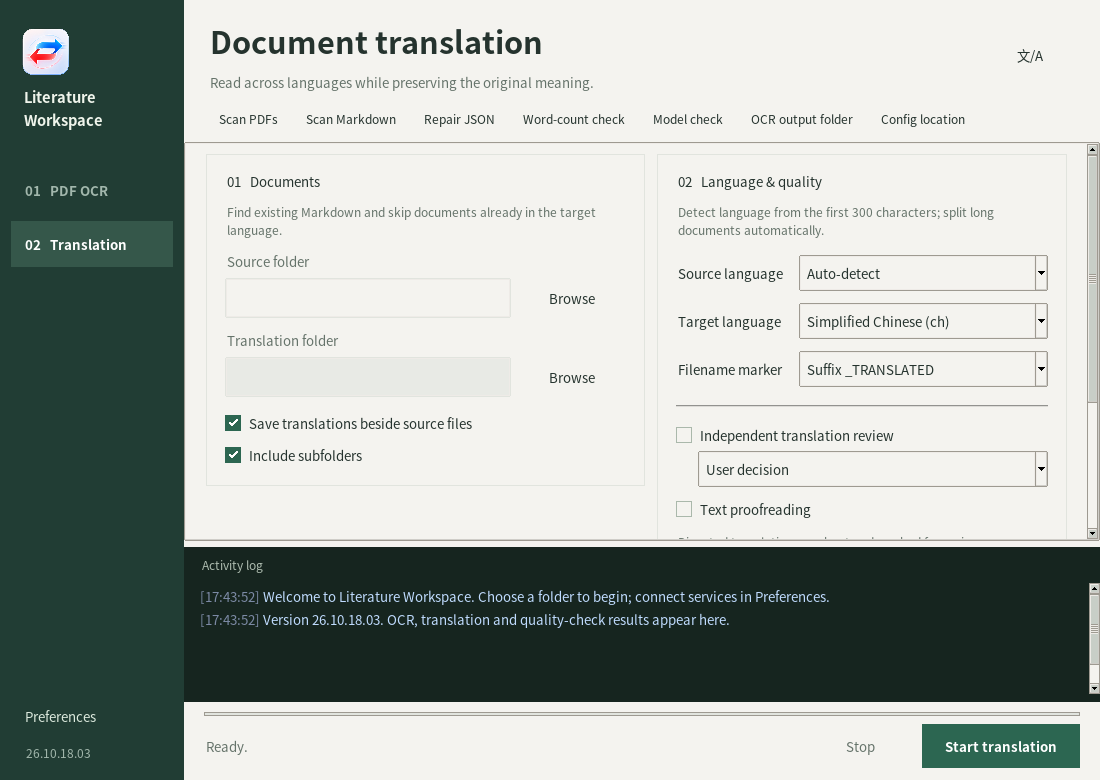
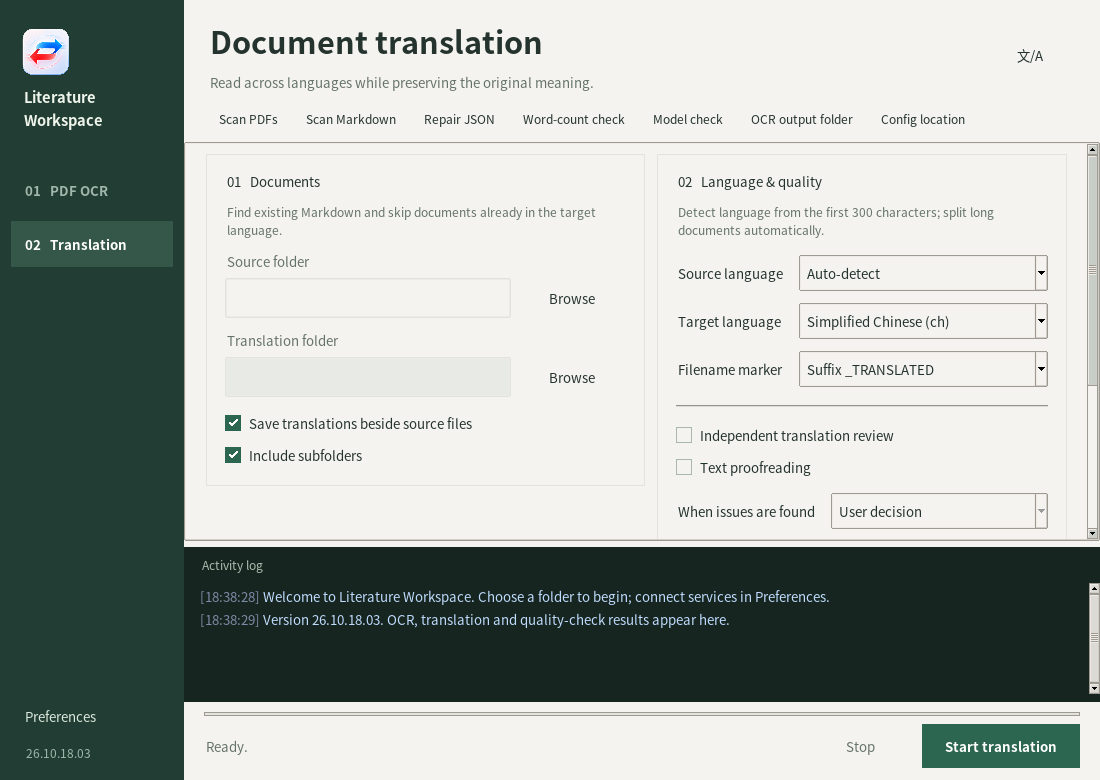
fix: arbitrate proofreading findings in post-OCR translation

diff --git a/tests/test_literature_processing.py b/tests/test_literature_processing.py
@@ -118,6 +118,81 @@ class TranslationTests(unittest.TestCase):
             options=lp.TranslationOptions(proofreading=True), proofreader=self.profile)
         self.assertTrue(result["verified"])
 
+    def test_proofreading_findings_use_selected_decision_model_without_secondary_review(self):
+        arbiter = lp.ModelProfile(self.profile.base_url, "arbiter-key", "decision-model")
+        log, decide = Mock(), Mock(side_effect=AssertionError("Model mode must not ask the user"))
+        result, chat = self.translate([self.detect, "译文", '{"has_problem":true,"issues":["缺字疑点"]}',
+                '{"decision":"approve","has_problem":false,"reason":"原文与译文一致"}'],
+            options=lp.TranslationOptions(proofreading=True, arbitration="大模型裁决"),
+            proofreader=self.profile, arbiter=arbiter, log=log, decide=decide)
+        self.assertTrue(result["verified"])
+        self.assertEqual(result["arbiter"], "decision-model")
+        self.assertEqual(chat.call_args_list[-1].args[0], arbiter)
+        self.assertEqual(chat.call_args_list[-1].args[1], lp.PROOF_ARBITRATE_PROMPT)
+        self.assertEqual(chat.call_args_list[-1].args[2]["translation"], "译文")
+        self.assertTrue(result["checks"][0]["proofreading"]["has_problem"])
+        self.assertEqual(result["checks"][0]["proofreadingArbitration"]["decision"], "approve")
+        self.assertEqual(result["pendingReasons"], [])
+        self.assertIn("开始校对疑点裁决，模型 decision-model", "\n".join(str(call.args[0]) for call in log.call_args_list))
+        decide.assert_not_called()
+
+    def test_proofreading_decision_requires_both_explicit_approval_and_no_remaining_problem(self):
+        for verdict in ({"decision": "approve", "has_problem": True},
+                        {"decision": "needs_review", "has_problem": True},
+                        {"decision": "needs_review", "has_problem": False},
+                        {"decision": "unresolved", "has_problem": False},
+                        {"has_problem": False}):
+            with self.subTest(verdict=verdict):
+                self.output.unlink(missing_ok=True)
+                result, _ = self.translate([self.detect, "译文", '{"has_problem":true}', json.dumps(verdict)],
+                    options=lp.TranslationOptions(proofreading=True, arbitration="大模型裁决"),
+                    proofreader=self.profile, arbiter=self.profile)
+                self.assertFalse(result["verified"])
+                self.assertEqual(result["status"], "needs_review")
+                self.assertEqual(result["pendingReasons"], ["proofreading_problem"])
+
+    def test_proofreading_approval_does_not_clear_an_unresolved_translation_dispute(self):
+        result, _ = self.translate([self.detect, "首次", "二次", '{"has_problem":true}',
+                '{"choice":"unresolved","has_problem":true}', '{"has_problem":true}',
+                '{"decision":"approve","has_problem":false}'],
+            options=lp.TranslationOptions(secondary_review=True, proofreading=True, arbitration="大模型裁决"),
+            reviewer=self.profile, proofreader=self.profile, arbiter=self.profile)
+        self.assertFalse(result["verified"])
+        self.assertEqual(result["pendingReasons"], ["translation_dispute_unresolved"])
+
+    def test_model_proofreading_decision_validates_arbiter_before_any_request(self):
+        with patch.object(lp, "chat") as chat, self.assertRaisesRegex(ValueError, "裁决模型"):
+            lp.translate_document(self.source, self.output,
+                lp.TranslationOptions(proofreading=True, arbitration="大模型裁决"), self.profile, proofreader=self.profile)
+        chat.assert_not_called()
+
+    def test_invalid_proofreading_decision_never_creates_an_approved_file(self):
+        with self.assertRaises(RuntimeError):
+            self.translate([self.detect, "译文", '{"has_problem":true}', '{"decision":"approve"}'],
+                options=lp.TranslationOptions(proofreading=True, arbitration="大模型裁决"),
+                proofreader=self.profile, arbiter=self.profile)
+        self.assertFalse(self.output.exists())
+
+    def test_clean_proofreading_does_not_call_the_arbiter(self):
+        result, chat = self.translate([self.detect, "译文", '{"has_problem":false}'],
+            options=lp.TranslationOptions(proofreading=True, arbitration="大模型裁决"),
+            proofreader=self.profile, arbiter=self.profile)
+        self.assertTrue(result["verified"])
+        self.assertEqual(chat.call_count, 3)
+        self.assertNotIn("proofreadingArbitration", result["checks"][0])
+
+    def test_translation_arbitration_logs_the_model_and_effective_decision(self):
+        log = Mock()
+        result, _ = self.translate([self.detect, "首次", "二次", '{"has_problem":true}',
+                '{"choice":"second","has_problem":false,"reason":"二次译文完整"}'],
+            options=lp.TranslationOptions(secondary_review=True, arbitration="大模型裁决"),
+            reviewer=self.profile, arbiter=self.profile, log=log)
+        text = "\n".join(str(call.args[0]) for call in log.call_args_list)
+        self.assertIn("开始翻译分歧裁决，模型 translator", text)
+        self.assertIn("接受二次译文", text)
+        self.assertIn("二次译文完整", text)
+        self.assertTrue(result["verified"])
+
     def test_malformed_review_does_not_produce_approved_output(self):
         with self.assertRaises(RuntimeError):
             self.translate([self.detect, "译文", '{"has_problem":"false"}'],

diff --git a/tests/test_literature_ui.py b/tests/test_literature_ui.py
@@ -84,6 +84,40 @@ class OCRIntegrationTests(unittest.TestCase):
         with self.assertRaises(lp.ProcessingCancelled):
             LiteratureControls.decide(controls, {"chunk": 1})
 
+    def test_post_ocr_translation_uses_model_for_review_and_proofreading_decisions(self):
+        for secondary in (False, True):
+            with self.subTest(secondary=secondary), tempfile.TemporaryDirectory() as directory:
+                root = Path(directory)
+                source = root / "ocr-result.md"
+                source.write_text("# Foreign paper\n\nEvidence and conclusions.", encoding="utf-8")
+                profiles = {role: lp.ModelProfile("https://example.invalid/v1", "test-key", role)
+                            for role in ("translator", "reviewer", "proofreader", "arbiter")}
+                controls = object.__new__(LiteratureControls)
+                controls.snapshot = {"auto_translate": True, "output": None, "prefix": False,
+                    "profiles": profiles, "options": lp.TranslationOptions(secondary_review=secondary,
+                        proofreading=True, arbitration="大模型裁决"), "github": None}
+                controls.stopped = Mock(return_value=False)
+                controls.events = queue.Queue()
+                controls.log = Mock()
+                controls.maybe_upload = Mock()
+                controls.decide = Mock(side_effect=AssertionError("Automatic model decisions must not open a user dialog"))
+                responses = ['{"language":"English","is_target_language":false}', "# 文献\n\n证据与结论。"]
+                if secondary:
+                    responses += ["# 文献\n\n第二版。", '{"has_problem":true}',
+                                  '{"choice":"first","has_problem":false,"reason":"第一版准确"}']
+                responses += ['{"has_problem":true,"issues":["缺字疑点"]}',
+                              '{"decision":"approve","has_problem":false,"reason":"校对误报，译文完整"}']
+                with patch.object(lp, "chat", side_effect=responses) as chat:
+                    controls.after_ocr(source, root, {"llmReview": {"hasProblem": False}}, source.read_text())
+                report = json.loads((root / "ocr-result_TRANSLATED.translation.json").read_text(encoding="utf-8"))
+                self.assertEqual(report["status"], "verified")
+                self.assertEqual(report["arbiter"], "arbiter")
+                decisions = [call for call in chat.call_args_list if call.args[0].model == "arbiter"]
+                self.assertEqual(len(decisions), 2 if secondary else 1)
+                self.assertEqual(decisions[-1].args[1], lp.PROOF_ARBITRATE_PROMPT)
+                self.assertTrue(controls.maybe_upload.call_args.args[2])
+                controls.decide.assert_not_called()
+
 
 class DesktopLayoutTests(unittest.TestCase):
     @classmethod
@@ -532,6 +566,41 @@ class DesktopLayoutTests(unittest.TestCase):
             self.app.start_btn.configure(state="normal")
             self.app.stop_btn.configure(state="disabled")
             self.app.manual_query_btn.configure(state="disabled")
+
+    def test_ocr_and_translation_entries_share_quality_controls_and_validate_proofreading_arbiter(self):
+        controls, layout = self.app.literature, self.app.workspace_layout
+        before = {name: getattr(controls, name).get() for name in ("auto_translate", "secondary", "proofreading", "arbitration")}
+        previous_profiles = {role: (model.key.get(), model.model.get()) for role, model in controls.profiles.items()}
+        try:
+            controls.auto_translate.set(True)
+            controls.secondary.set(False)
+            controls.proofreading.set(False)
+            self.assertTrue(layout.ocr_quality_group.grid_info())
+            self.assertEqual(str(layout.ocr_quality_panel.arbitration_combo.cget("state")), "disabled")
+            layout.ocr_quality_panel.proofreading_button.invoke()
+            self.assertTrue(controls.proofreading.get())
+            self.assertEqual(str(controls.quality_panel.arbitration_combo.cget("state")), "readonly")
+            controls.arbitration.set("大模型裁决")
+            for role, model in controls.profiles.items():
+                model.key.set("test-key")
+                model.model.set(role)
+            snapshot = controls.make_snapshot()
+            self.assertTrue(snapshot["options"].proofreading)
+            self.assertEqual(snapshot["options"].arbitration, "大模型裁决")
+            self.assertEqual(snapshot["profiles"]["arbiter"].model, "arbiter")
+            self.assertEqual(layout.ocr_quality_panel.arbitration_combo.cget("textvariable"),
+                             controls.quality_panel.arbitration_combo.cget("textvariable"))
+            controls.profiles["arbiter"].key.set("")
+            with self.assertRaises(ValueError):
+                controls.make_snapshot()
+            controls.auto_translate.set(False)
+            self.assertFalse(layout.ocr_quality_group.grid_info())
+        finally:
+            for name, value in before.items():
+                getattr(controls, name).set(value)
+            for role, (key, model) in previous_profiles.items():
+                controls.profiles[role].key.set(key)
+                controls.profiles[role].model.set(model)
 
     def test_user_can_inspect_both_versions_and_accept_second(self):
         controls = self.app.literature

diff --git a/workspace_ui.py b/workspace_ui.py
@@ -154,6 +154,35 @@ def path_field(parent, row, label, variable, command):
     return entry, button
 
 
+def quality_controls(parent, controls):
+    """Both entry points edit the same quality options and decision mode."""
+    panel = ttk.Frame(parent, style="Paper.TFrame")
+    panel.columnconfigure(0, weight=1)
+    panel.secondary_button = ttk.Checkbutton(panel, text=tr('二次翻译核对'), variable=controls.secondary)
+    panel.secondary_button.grid(row=0, column=0, sticky="w")
+    panel.proofreading_button = ttk.Checkbutton(panel, text=tr('文本校对'), variable=controls.proofreading)
+    panel.proofreading_button.grid(row=1, column=0, sticky="w")
+    form = ResponsiveForm(panel)
+    form.grid(row=2, column=0, sticky="ew", pady=(4, 0))
+    panel.arbitration_combo = ttk.Combobox(form, textvariable=controls.arbitration,
+        values=[tr('用户自行裁决'), tr('大模型裁决')], state="readonly")
+    panel.arbitration_combo.localized_choices = True
+    form.add(tr("发现问题时"), panel.arbitration_combo)
+    AdaptiveLabel(panel, text=tr("勾选检查后选择处理方式。大模型裁决会复核翻译分歧和校对疑点；无法明确批准时保留报告待处理。"),
+                  style="Hint.TLabel").grid(row=3, column=0, sticky="ew", pady=(6, 0))
+
+    def refresh(*_):
+        panel.arbitration_combo.configure(state="readonly" if controls.secondary.get() or controls.proofreading.get() else "disabled")
+    traces = [(variable, variable.trace_add("write", refresh)) for variable in (controls.secondary, controls.proofreading)]
+    def cleanup(event):
+        if event.widget == panel:
+            for variable, trace in traces:
+                variable.trace_remove("write", trace)
+    panel.bind("<Destroy>", cleanup, add="+")
+    refresh()
+    return panel
+
+
 def build_translation_page(controls, saved, fetch, test):
     """Create task options here; advanced service configuration lives in Settings."""
     shell = controls.app.workspace_layout
@@ -178,13 +207,8 @@ def build_translation_page(controls, saved, fetch, test):
         selector.localized_choices = True
         controls.language_form.add(label, selector)
     ttk.Separator(body).grid(row=3, column=0, sticky="ew", pady=12)
-    ttk.Checkbutton(body, text=tr('二次翻译核对'), variable=controls.secondary).grid(row=4, column=0, sticky="w")
-    arbitration = ttk.Combobox(body, textvariable=controls.arbitration,
-                               values=[tr('用户自行裁决'), tr('大模型裁决')], state="readonly", width=18)
-    arbitration.localized_choices = True
-    arbitration.grid(row=5, column=0, sticky="ew", padx=(22, 0), pady=(0, 6))
-    ttk.Checkbutton(body, text=tr('文本校对'), variable=controls.proofreading).grid(row=6, column=0, sticky="w")
-    AdaptiveLabel(body, text=tr('有争议的译文会保留并标记为待处理。'), style="Hint.TLabel").grid(row=7, column=0, sticky="ew", pady=(6, 0))
+    controls.quality_panel = quality_controls(body, controls)
+    controls.quality_panel.grid(row=4, column=0, sticky="ew")
     summary, body = card(page, tr('03   处理服务'))
     summary.grid(row=2, column=0, sticky="ew", padx=20, pady=(0, 20))
     controls.model_summary = LocalizedVar(value=tr('尚未设置翻译模型'))
@@ -301,7 +325,21 @@ class WorkspaceLayout:
                                      (3, tr('覆盖已有 Markdown'), app.overwrite_var), (4, tr('使用 LLM 核验 OCR 质量'), app.llm_review_var),
                                      (5, tr('自动检测外文并翻译'), app.literature.auto_translate)):
             ttk.Checkbutton(body, text=text, variable=variable).grid(row=row, column=0, sticky="w")
-        AdaptiveLabel(body, text=tr('大于 50MB 的 PDF 会自动拆分并合并结果。'), style="Hint.TLabel").grid(row=6, column=0, sticky="ew", pady=(8, 0))
+        self.ocr_quality_group = ttk.LabelFrame(body, text=tr("自动翻译核对设置（两入口共用）"), padding=10)
+        self.ocr_quality_group.columnconfigure(0, weight=1)
+        self.ocr_quality_group.grid(row=6, column=0, sticky="ew", pady=(8, 0))
+        self.ocr_quality_panel = quality_controls(self.ocr_quality_group, app.literature)
+        self.ocr_quality_panel.grid(row=0, column=0, sticky="ew")
+        ttk.Button(self.ocr_quality_group, text=tr("配置翻译与裁决模型"),
+                   command=lambda: self.show_settings(1)).grid(row=1, column=0, sticky="w", pady=(6, 0))
+        def sync_quality_options(*_):
+            if app.literature.auto_translate.get():
+                self.ocr_quality_group.grid()
+            else:
+                self.ocr_quality_group.grid_remove()
+        app.literature.auto_translate.trace_add("write", sync_quality_options)
+        sync_quality_options()
+        AdaptiveLabel(body, text=tr('大于 50MB 的 PDF 会自动拆分并合并结果。'), style="Hint.TLabel").grid(row=7, column=0, sticky="ew", pady=(8, 0))
         service, body = card(page, tr('03   处理服务'))
         service.grid(row=2, column=0, sticky="ew", padx=20, pady=(0, 20))
         AdaptiveLabel(body, textvariable=app.token_state_var, style="Card.TLabel").grid(row=0, column=0, sticky="ew", pady=5)

diff --git a/literature_ui.py b/literature_ui.py
@@ -240,12 +240,16 @@ class LiteratureControls:
             required = ["translator"]
             if self.secondary.get():
                 required.append("reviewer")
-                if self.arbitration.get() == "大模型裁决":
-                    required.append("arbiter")
             if self.proofreading.get():
                 required.append("proofreader")
+            if (self.secondary.get() or self.proofreading.get()) and self.arbitration.get() == "大模型裁决":
+                required.append("arbiter")
             for key in required:
-                profiles[key].validate()
+                try:
+                    profiles[key].validate()
+                except ValueError as exc:
+                    role = tr({"translator": "翻译", "reviewer": "二次核对", "proofreader": "校对", "arbiter": "裁决"}[key])
+                    raise ValueError(tr("{arg0}模型配置不完整：{arg1}", arg0=role, arg1=exc)) from None
             if not self.target.get().strip():
                 raise ValueError(tr('请选择目标语言。'))
         github = None
@@ -341,8 +345,14 @@ class LiteratureControls:
         destination = translated_path(path, root, snapshot["output"], snapshot["prefix"])
         result = translate_document(path, destination, snapshot["options"],
             **snapshot["profiles"], decide=self.decide, stop=self.stopped, log=self.log)
-        labels = {"verified": tr('核验通过'), "needs_review": tr('发现问题，待人工处理'), "unverified": tr('未启用质量检查'),
+        labels = {"verified": tr('核验通过'), "needs_review": tr('核验尚未通过，请查看检查报告'), "unverified": tr('未启用质量检查'),
                   "target_language": tr('已是目标语言，跳过'), "existing": tr('译文已存在，跳过')}
+        if result["status"] == "needs_review":
+            reasons = result.get("pendingReasons", [])
+            if reasons == ["proofreading_problem"]:
+                labels["needs_review"] = tr("文本校对尚未通过，请查看检查报告")
+            elif reasons == ["translation_dispute_unresolved"]:
+                labels["needs_review"] = tr("翻译分歧尚未解决，请查看检查报告")
         self.log(tr('{arg0}：{arg1}', arg0=path.name, arg1=labels[result['status']]))
         self.events.put(("status", tr('{arg0}：{arg1}', arg0=path.name, arg1=labels[result['status']])))
         if result["status"] in {"verified", "needs_review", "unverified"}:
@@ -365,6 +375,7 @@ class LiteratureControls:
             expected = hashlib.sha256(path.read_bytes()).hexdigest()
         self.maybe_upload(path, root, ocr_verified(raw_data), snapshot, expected)
         if snapshot["auto_translate"]:
+            self.log(tr("OCR 后自动翻译沿用共用的翻译、核对和裁决设置。"))
             def warning(value):
                 if isinstance(value, dict):
                     return bool(value.get("qualityWarning")) or any(warning(v) for v in value.values())

diff --git a/ui_translations.py b/ui_translations.py
@@ -506,6 +506,31 @@ EN_MESSAGES.update({
     "配置位置": "Config location",
 })
 
+EN_MESSAGES.update({
+    '启用': 'Enabled',
+    '翻译检查设置：二次核对 {arg0}；文本校对 {arg1}；问题处理 {arg2}；裁决模型 {arg3}。': 'Translation checks: independent review {arg0}; proofreading {arg1}; issue handling {arg2}; decision model {arg3}.',
+    '{arg0}：第 {arg1} 段开始翻译分歧裁决，模型 {arg2}。': '{arg0}: deciding the translation dispute in chunk {arg1}, using {arg2}.',
+    '{arg0}：第 {arg1} 段翻译裁决结果：{arg2}；理由：{arg3}': '{arg0}: translation decision for chunk {arg1}: {arg2}; reason: {arg3}',
+    '未能明确批准译文': 'Translation not explicitly approved',
+    '模型未提供理由': 'No reason provided by the model',
+    '{arg0}：第 {arg1} 段翻译有分歧，等待用户裁决。': '{arg0}: translation dispute in chunk {arg1}; waiting for your decision.',
+    '{arg0}：第 {arg1} 段开始校对疑点裁决，模型 {arg2}。': '{arg0}: deciding proofreading findings in chunk {arg1}, using {arg2}.',
+    '{arg0}：第 {arg1} 段校对裁决结果：{arg2}；理由：{arg3}': '{arg0}: proofreading decision for chunk {arg1}: {arg2}; reason: {arg3}',
+    '校对疑点已排除': 'Proofreading findings cleared',
+    '校对疑点尚未解决': 'Proofreading findings remain unresolved',
+    '{arg0}：第 {arg1} 段校对疑点尚未解决，本段保持待处理。': '{arg0}: proofreading findings in chunk {arg1} remain unresolved; the chunk is pending review.',
+    '核验尚未通过，请查看检查报告': 'Checks have not passed; see the review report',
+    '文本校对尚未通过，请查看检查报告': 'Proofreading has not passed; see the review report',
+    '翻译分歧尚未解决，请查看检查报告': 'Translation dispute unresolved; see the review report',
+    'OCR 后自动翻译沿用共用的翻译、核对和裁决设置。': 'Post-OCR translation uses the shared translation, review and decision settings.',
+    '发现问题时': 'When issues are found',
+    '勾选检查后选择处理方式。大模型裁决会复核翻译分歧和校对疑点；无法明确批准时保留报告待处理。': 'Enable a check, then choose how to handle issues. Model decisions review translation disputes and proofreading findings; unresolved cases remain in the report.',
+    '自动翻译核对设置（两入口共用）': 'Translation checks (shared by both entries)',
+    '配置翻译与裁决模型': 'Configure translation and decision models',
+})
+
+EN_MESSAGES.update({"{arg0}模型配置不完整：{arg1}": "Incomplete {arg0} model settings: {arg1}"})
+
 _language = "zh"
 _sources = {value: key for key, value in EN_MESSAGES.items()}
 

diff --git a/tests/test_model_budget.py b/tests/test_model_budget.py
@@ -119,6 +119,30 @@ class BudgetTests(unittest.TestCase):
         self.assertEqual("".join(originals), text)
         self.assertGreater(len(report["checks"]), 1)
 
+    def test_proofreading_only_decision_respects_a_smaller_arbiter_budget(self):
+        translator = self.profile(input_limit=80000)
+        proofreader = replace(translator, model="proofreader")
+        arbiter = replace(translator, model="arbiter", input_limit=12000)
+        options = lp.TranslationOptions(proofreading=True, arbitration="大模型裁决")
+        def responder(profile, prompt, data, *args, **kwargs):
+            self.assertLessEqual(request_size(prompt, data), input_budget(profile))
+            if "sample" in data:
+                return '{"language":"English","is_target_language":false}'
+            if prompt == lp.TRANSLATE_PROMPT:
+                return data["source"]
+            if prompt == lp.PROOFREAD_PROMPT:
+                return '{"has_problem":true,"issues":["suspected missing word"]}'
+            self.assertEqual(profile.model, "arbiter")
+            self.assertEqual(prompt, lp.PROOF_ARBITRATE_PROMPT)
+            return '{"decision":"approve","has_problem":false}'
+        text = "Evidence and conclusions.\n\n" * 500
+        report, calls, _ = self.run_document(text, options, dict(translator=translator,
+                                proofreader=proofreader, arbiter=arbiter), responder)
+        self.assertTrue(report["verified"])
+        self.assertGreater(len(report["checks"]), 1)
+        originals = [call.args[2]["source"] for call in calls if call.args[1] == lp.TRANSLATE_PROMPT]
+        self.assertEqual("".join(originals), text)
+
     def test_expanded_translation_is_retranslated_in_smaller_source_chunks(self):
         profile = self.profile(input_limit=20000)
         options = lp.TranslationOptions(proofreading=True)

diff --git a/README.md b/README.md
@@ -499,7 +499,8 @@ Choose whether to overwrite existing output files.
 选择是否覆盖已有输出文件。
 
 Optionally enable **Detect foreign languages and translate** after configuring [the translation entry](#translation). Leave it off for OCR alone. Only newly completed OCR files enter this follow-up; existing outputs skipped by OCR can be processed through the translation entry.  
-按需勾选 **自动检测外文并翻译**，并先配置[翻译入口](#translation)（第 7 节）；不勾选时仅进行 OCR。只有本次新完成的 OCR 文件会进入后续翻译；被 OCR 跳过的已有输出可通过翻译入口处理。
+Enabling it expands **Translation checks (shared by both entries)** on the OCR page. Enable independent review and/or proofreading, choose **Model decision** under **When issues are found**, then use **Configure translation and decision models** for the relevant services. Configuring a decision model alone does not enable checks or select that mode. Set these options before starting; changes during a batch apply to the next run.  
+按需勾选 **自动检测外文并翻译**，并先配置[翻译入口](#translation)（第 7 节）；不勾选时仅进行 OCR。只有本次新完成的 OCR 文件会进入后续翻译；被 OCR 跳过的已有输出可通过翻译入口处理。 勾选后，OCR 页会展开 **自动翻译核对设置（两入口共用）**：可直接启用二次核对／文本校对，并在 **发现问题时** 选择 **大模型裁决**。点击 **配置翻译与裁决模型** 填写相应服务。只填写裁决模型不会自动启用检查或切换处理方式；应在开始任务前设置，运行中修改用于下次任务。
 
 Click **Start OCR**.  
 点击“开始 OCR”。
@@ -796,6 +797,7 @@ Complete Markdown paragraphs and code blocks are kept together where the budget 
 ### Secondary Translation Review and Arbitration   二次翻译核对与争议裁决
 
 Enable **Independent translation review** and configure its model to independently translate each original chunk again, then compare both translations against the source for omissions, mistranslations, numbers, and citations. Choose how disagreements are resolved:  
+The OCR and translation entries use the same checkboxes and decision-mode selection. At least one check must be enabled to select an issue-handling mode.  
 勾选 **二次翻译核对** 并指定模型后，该模型会独立重译每段原文，再对照原文比较两份译文中的漏译、误译、数字和引文问题。发现问题时可选择以下裁决方式：
 
 - **用户自行裁决 — User decision:** inspect the original, first translation, second translation, and review report in separate tabs; accept either translation or retain the first as needing review.
@@ -806,8 +808,15 @@ Enable **Independent translation review** and configure its model to independent
 
 ### Text Proofreading   文本校对
 
-Enable **Text proofreading** independently or after secondary review, and configure its model. It checks the final selected translation against the source for awkward or broken sentences, missing characters, and omitted content. It reports problems without silently polishing or rewriting the text. Problematic output is saved with a pending-review status and cannot be uploaded automatically.
-**文本校对** 可单独启用，也可在二次核对后启用，并另行指定模型。模型结合原文检查最终选定译文是否存在语句不通、缺字少字、漏译等问题；只报告问题，不擅自润色或改写。有问题的译文仍会保存，但标记待处理，禁止自动上传。
+Enable **Text proofreading** independently or after secondary review, and configure its model. It checks the final selected translation against the source for awkward or broken sentences, missing characters and omissions, without polishing or rewriting it. With **Model decision** selected, findings go to the configured decision model for an independent check against the source, selected translation and proofreading report. Only explicit approval with no remaining problem clears a finding. Confirmed problems, inconclusive decisions and unresolved translation disputes remain pending and block automatic uploads. In user mode, proofreading findings remain in the report for manual inspection.
+**文本校对** 可单独启用，也可在二次核对后启用，并另行指定模型。模型结合原文检查最终选定译文是否存在语句不通、缺字少字、漏译等问题；不擅自润色或改写。选择 **大模型裁决** 时，校对疑点会进一步交给指定裁决模型，独立对照原文、最终译文及校对报告复核。只有明确返回批准且确认没有遗留问题，才会排除该疑点；真实问题、不能明确批准或尚未解决的翻译分歧仍保留待处理，禁止自动上传。用户模式下，校对问题保留报告供人工复核。
+
+### Decision Logs and Pending Results   裁决日志与待处理原因
+
+Each file logs the actual enabled checks, decision mode and model used by its captured job settings. A dispute logs the start of the model call, its decision and reason. The report preserves original proofreading findings in `checks[].proofreading`, the independent decision in `checks[].proofreadingArbitration`, and unresolved causes in `pendingReasons`. A pending result means a check has not been approved, not necessarily that model arbitration was skipped. If an existing translation is skipped, preserve and move it with its report before retrying.  
+每份文献会按任务开始时固定的设置，记录实际启用的检查、处理方式和裁决模型；有争议时记录模型调用开始、裁决结果及理由。报告通过 `checks[].proofreading` 保留原校对疑点，通过 `checks[].proofreadingArbitration` 保存独立裁决，并用 `pendingReasons` 区分未解决的翻译分歧与校对问题。“尚未通过”表示仍有检查未获批准，不表示一定没调用裁决模型。已有译文被跳过时，须先另存并移走译文及报告再重试。
+
+![Post-OCR translation checks](docs/screenshots/ocr-translation-checks.png)
 
 ### Output Location, Names, and Reports   输出位置、命名与报告
 
@@ -1300,6 +1309,9 @@ Version `26.10.18.03` replaces fixed 4,000-character translation chunks with mod
 
 Tools return as visible wrapping buttons; white card backgrounds are removed, and the upper-right **文/A** icon toggles Chinese/English directly. The original application icon, adaptive captions, same-folder output locking and guided GitHub upload setup remain available.  
 工具恢复为直接可见、自动换行的按钮，去掉白色卡片背景，右上角增加 **文/A** 图标直接切换汉英界面。保留原应用图标、自适应标签、同目录译文位置锁定及 GitHub 上传引导。
+
+Post-OCR translation exposes the shared quality options on the OCR page. Model decisions now also review proofreading findings, including proofreading-only jobs. Logs identify decision calls and their results; pending reports record the unresolved cause while retaining all original findings.  
+OCR 自动翻译在 OCR 页展示共用的核对设置；大模型裁决也会复核校对疑点，支持仅启用文本校对的任务。日志记录裁决调用与结果，待处理报告标明未解决原因，同时保留原始疑点。
 
 Display version, launcher, EXE filename and cache path use `26.10.18.03`; Windows numeric file/product versions use `26.10.18.3`. Version updates do not mean an EXE has already been built or published.  
 程序显示版本、启动器、EXE 文件名与缓存路径使用 `26.10.18.03`；Windows 数字文件/产品版本使用 `26.10.18.3`。版本更新不代表 EXE 已构建或发布。
